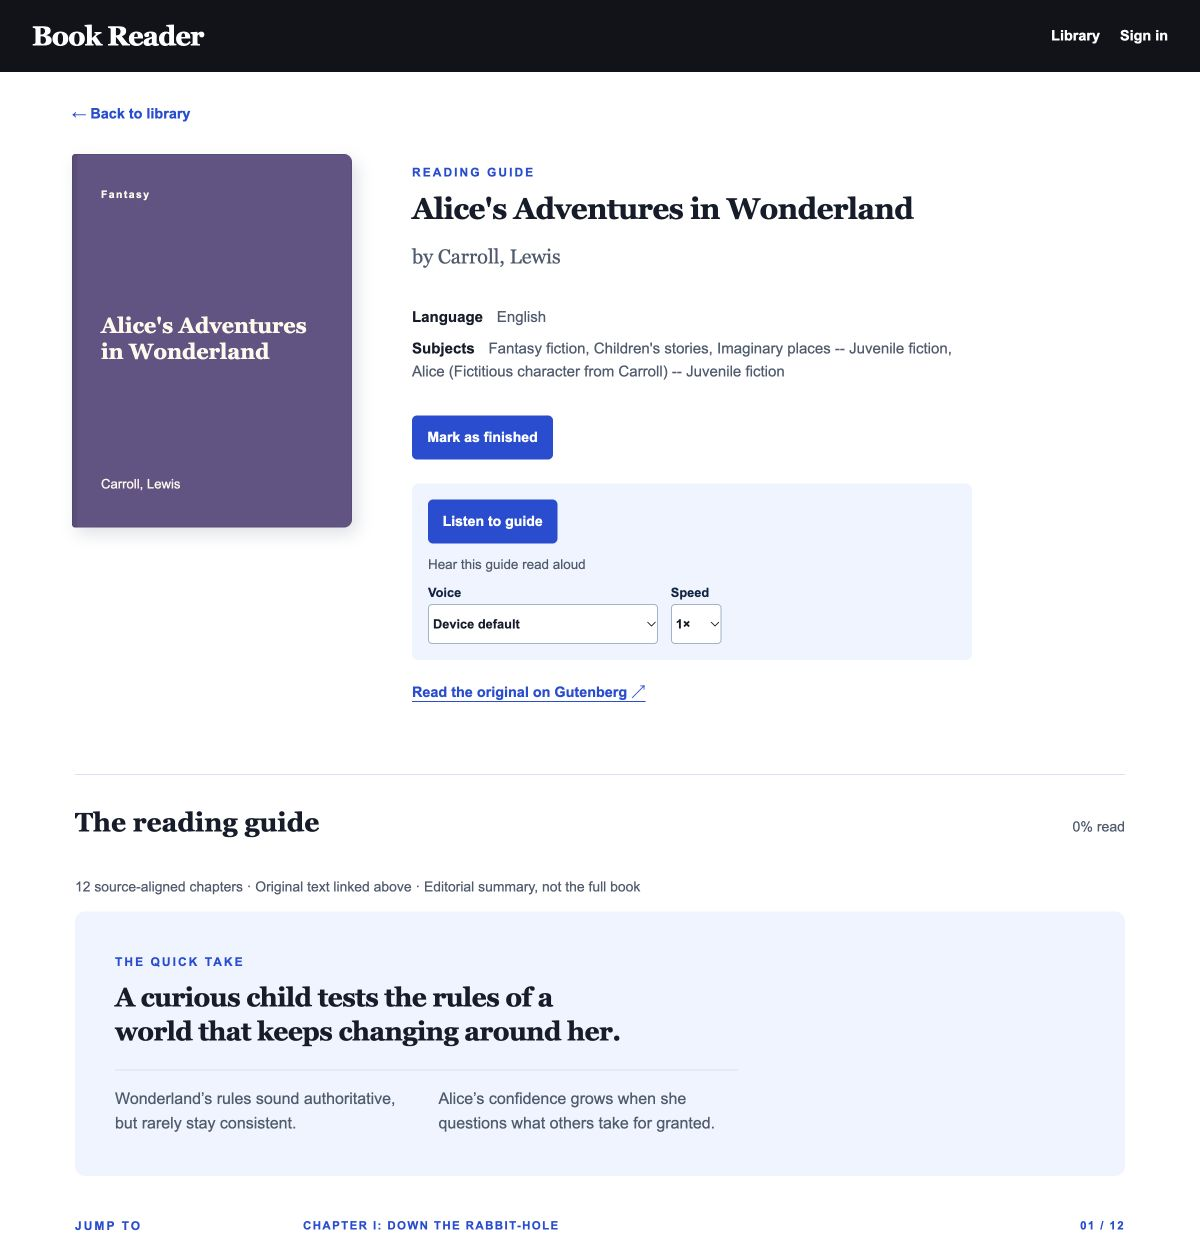
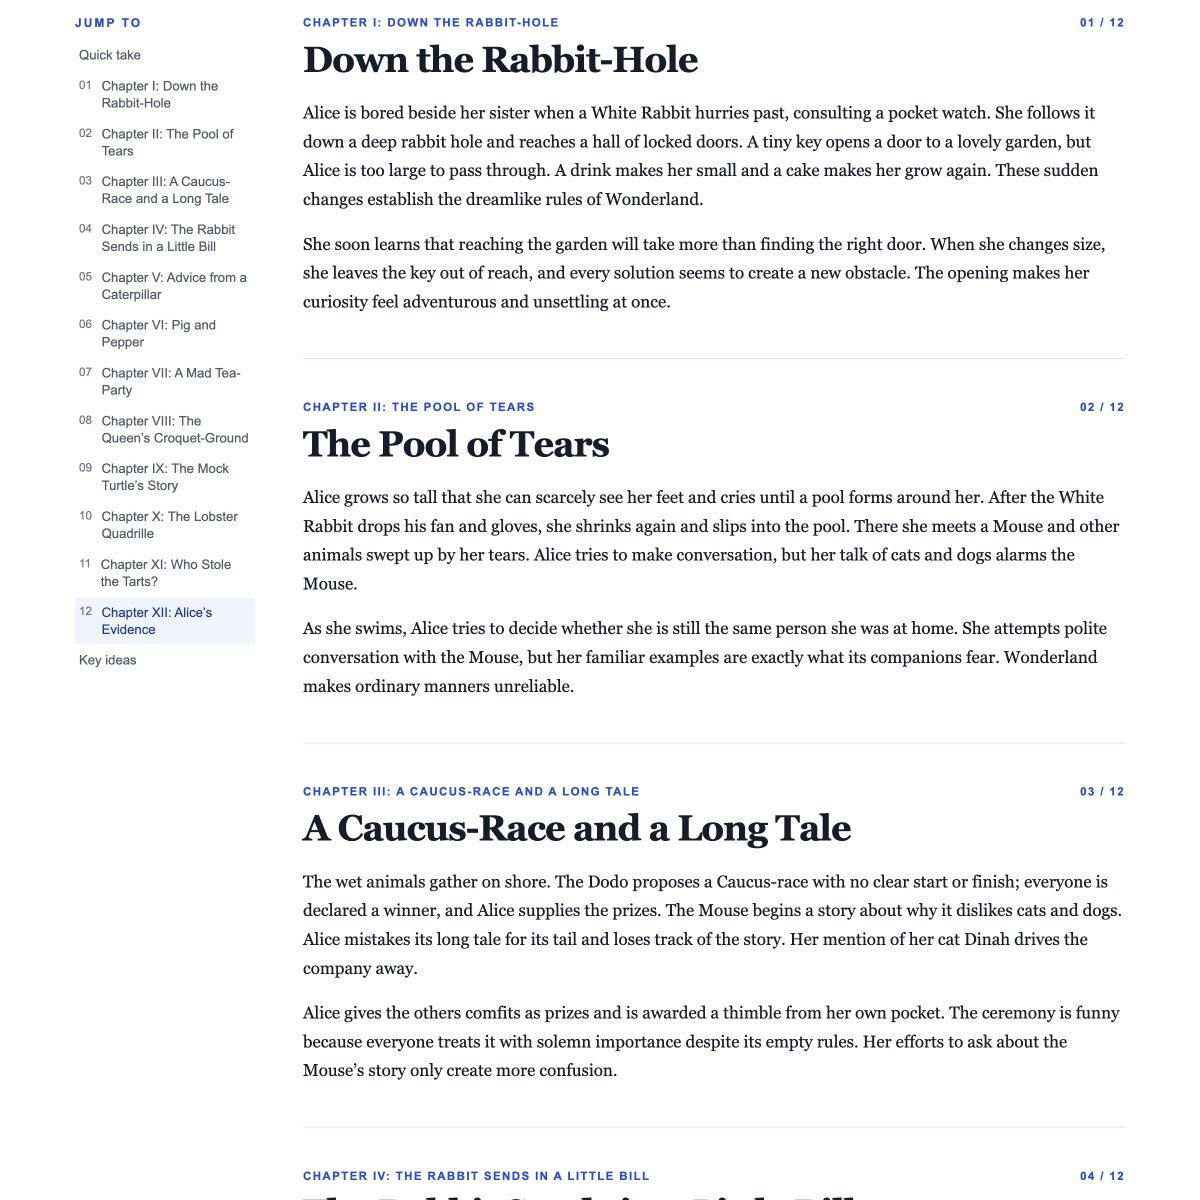
Show chapter summaries in README screenshot

diff --git a/README.md b/README.md
@@ -10,10 +10,13 @@ Book Reader is a Flask and React app for exploring book summaries from Project G
 
 ## Screenshots
 
-<p align="center">
-  <a href="docs/images/home.jpg"><img src="docs/images/home.jpg" alt="Book Reader library home page" width="420"></a>
-  <a href="docs/images/reading-guide.jpg"><img src="docs/images/reading-guide.jpg" alt="Alice's Adventures in Wonderland reading guide" width="420"></a>
-</p>
+**Library**
+
+<a href="docs/images/home.jpg"><img src="docs/images/home.jpg" alt="Book Reader library home page" width="600"></a>
+
+**Alice's Adventures in Wonderland — chapter summaries**
+
+<a href="docs/images/reading-guide.jpg"><img src="docs/images/reading-guide.jpg" alt="Alice's Adventures in Wonderland chapter summaries" width="600"></a>
 
 ## Requirements
 
